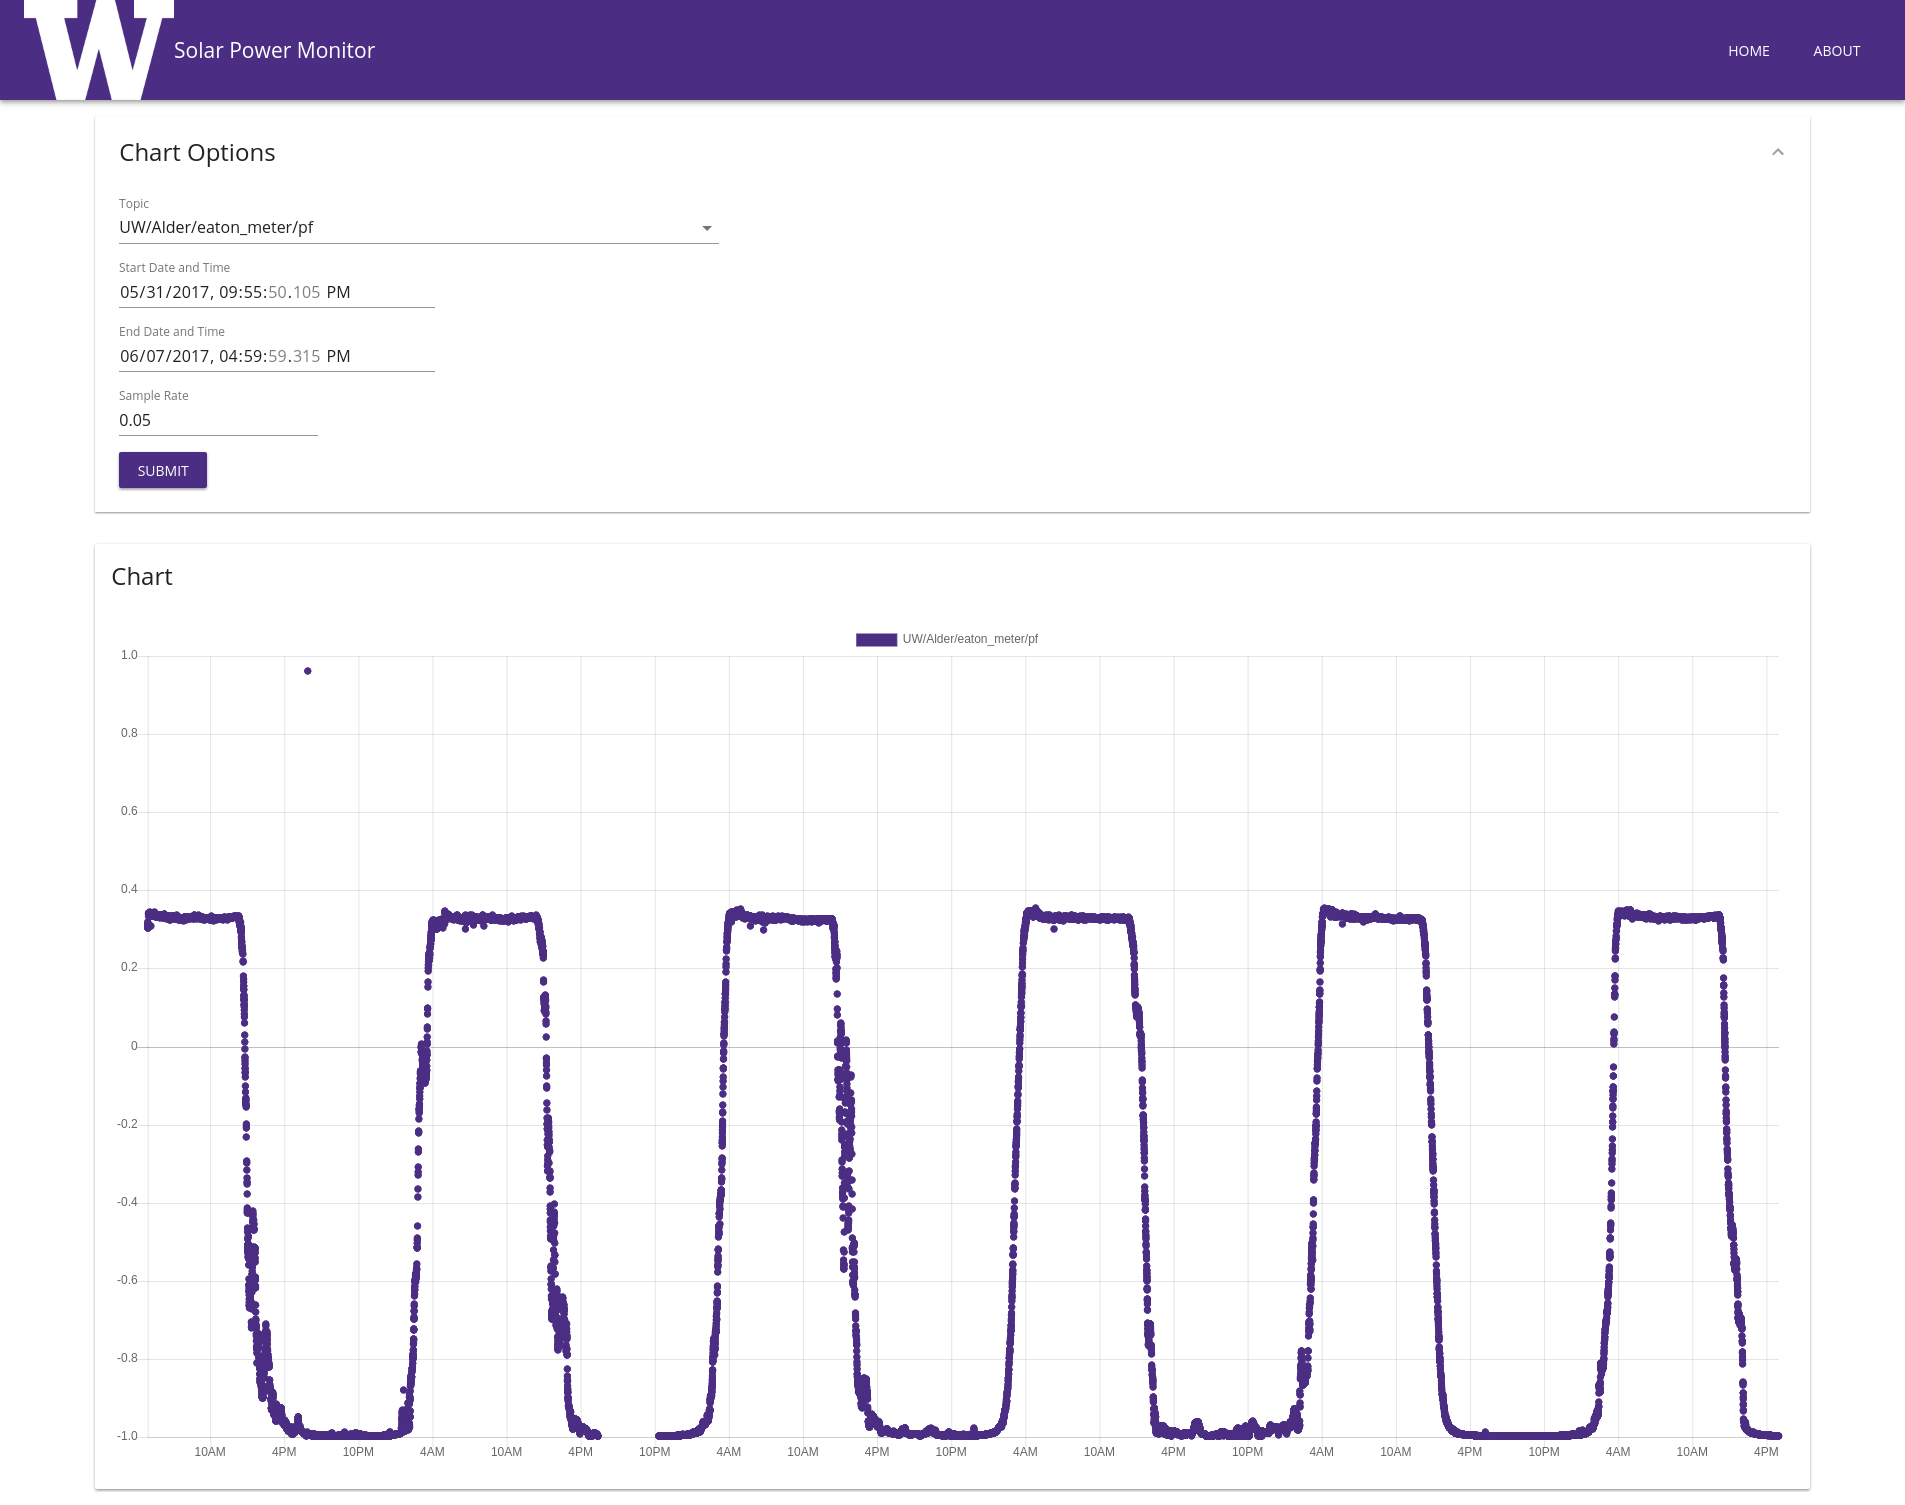
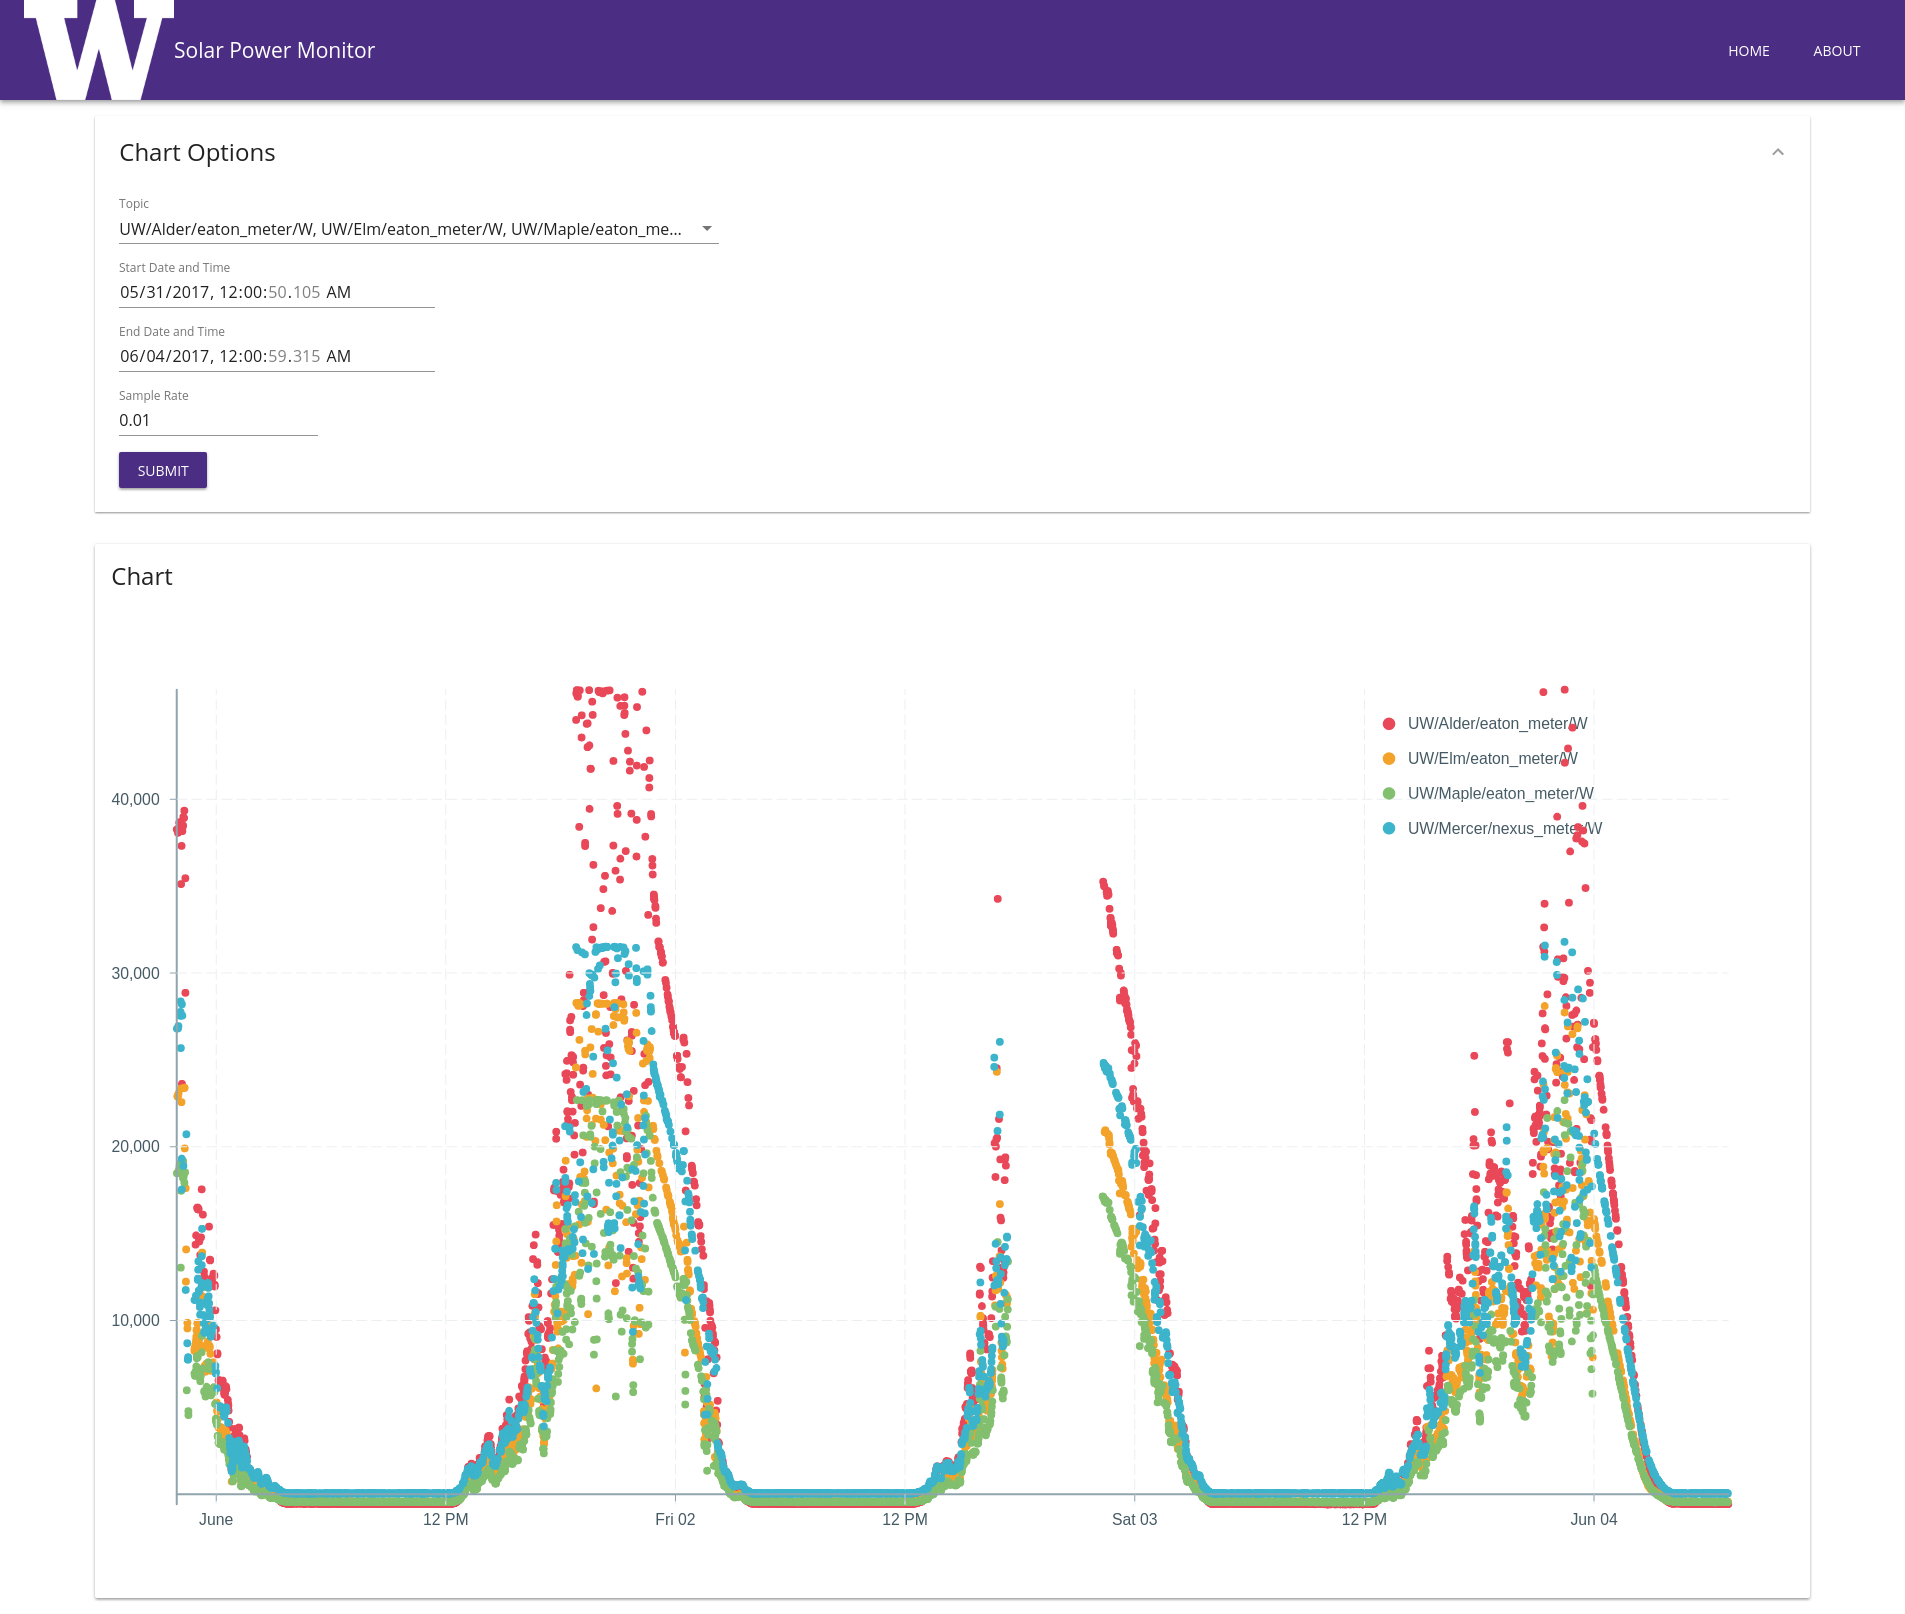
Enable multiple time series to be displayed.

diff --git a/src/client/js/chart.jsx b/src/client/js/chart.jsx
@@ -5,7 +5,13 @@
 import Moment from 'moment';
 import PropTypes from 'prop-types';
 import React from 'react';
-import { VictoryAxis, VictoryChart, VictoryScatter, VictoryTheme, VictoryVoronoiContainer } from 'victory';
+import { VictoryChart, VictoryLegend, VictoryScatter, VictoryTheme, VictoryVoronoiContainer } from 'victory';
+
+const CHART_COLORS = [
+  '#e94858', '#f3a32a', '#82BF6E', '#3CB4CB',
+  '#16434B', '#d9f35a', '#13aacb', '#5b6368',
+  '#ac62b2', '#5f62a0', '#17b2b4', '#80217a'
+];
 
 /**
  * A chart component for rendering timeseries data.
@@ -16,8 +22,50 @@ class Chart extends React.Component {
    * @returns {undefined}
    */
   render() {
-    const container = (<VictoryVoronoiContainer labels={(d) => `${d.x.format('YYYY-MM-DD[T]HH:mm:ss.SSS')}, ${d.y}`} />);
-    const data = this.props.data.map((e) => ({x: e.ts, y: parseFloat(e.valueString)}));
+    // Use a Voronoi container so that labels appear over data points.
+    const container = (
+      <VictoryVoronoiContainer
+        labels={(d) => `${d.x.format('YYYY-MM-DD[T]HH:mm:ss.SSS')}, ${d.y}`} />
+    );
+
+    // Group data by topic ID.
+    const data = {};
+    this.props.data.forEach(function(datum) {
+      if (!(datum.topicId in data)) {
+        data[datum.topicId] = [];
+      }
+
+      data[datum.topicId].push({
+        x: datum.ts,
+        y: parseFloat(datum.valueString)
+      });
+    });
+
+    // Create a scatter chart for each topic ID.
+    const charts = [];
+    const legendData = [];
+    const topics = this.props.topics;
+    Object.keys(data).forEach(function(topicId, index) {
+      const color = CHART_COLORS[index % CHART_COLORS.length];
+      const topic = topics.find((e) => (e.topicId == topicId));
+
+      charts.push(
+        <VictoryScatter
+          key={topicId}
+          data={data[topicId]}
+          style={{ data: { fill: color } }} />
+      );
+
+      legendData.push({
+        name: topic.topicName,
+        symbol: { fill: color }
+      });
+    });
+
+    // Create legend entries.
+    Object.keys(data).forEach(function(topicId, index) {
+    });
+
     return (
       <VictoryChart
         containerComponent={container}
@@ -25,7 +73,12 @@ class Chart extends React.Component {
         scale={{ x: 'time' }}
         width={1280}
         height={720}>
-        <VictoryScatter data={data} />
+
+        {charts}
+        <VictoryLegend
+          gutter={16}
+          x={960} y={64}
+          data={legendData} />
       </VictoryChart>
     );
   }
@@ -33,7 +86,7 @@ class Chart extends React.Component {
 
 Chart.propTypes = {
   data: PropTypes.array.isRequired,
-  label: PropTypes.string.isRequired
+  topics: PropTypes.array.isRequired
 };
 
 export default Chart;

diff --git a/src/client/js/home-route.jsx b/src/client/js/home-route.jsx
@@ -42,11 +42,11 @@ class HomeRoute extends React.Component {
       // A list of known topics.
       topics: [],
 
-      // The currently selected topic.
-      selectedTopicId: 0,
+      // The currently selected topics.
+      selectedTopicIds: [],
 
-      // The currently displayed data.
-      data: [],
+      // The currently displayed data, grouped by topic.
+      data: {},
 
       // The currently selected sample rate.
       selectedSampleRate: 0.05,
@@ -75,17 +75,11 @@ class HomeRoute extends React.Component {
 
     let chart = null;
     if (this.state.data.length > 0) {
-      const selectedTopic = this.state.topics.find((e) => (
-        e.topicId == this.state.selectedTopicId
-      ));
-
       chart = (
         <Card className={classes.chartCard}>
           <CardHeader title="Chart" />
           <CardContent>
-            <Chart
-              data={this.state.data}
-              label={selectedTopic.topicName} />
+            <Chart data={this.state.data} topics={this.state.topics} />
           </CardContent>
         </Card>
       );
@@ -101,7 +95,7 @@ class HomeRoute extends React.Component {
           <ExpansionPanelDetails>
             <ChartOptions
               topics={this.state.topics}
-              selectedTopicId={this.state.selectedTopicId}
+              selectedTopicIds={this.state.selectedTopicIds}
               startDateTime={this.state.startDateTime}
               endDateTime={this.state.endDateTime}
               selectedSampleRate={this.state.selectedSampleRate}
@@ -165,16 +159,16 @@ class HomeRoute extends React.Component {
     this.setState({ showProgressIndicator: true });
 
     const params = new URLSearchParams();
-    params.set('topic_id', this.state.selectedTopicId);
     params.set('start_date_time', this.state.startDateTime.toISOString());
     params.set('end_date_time', this.state.endDateTime.toISOString());
     params.set('sample_rate', this.state.selectedSampleRate);
+    params.set('topic_ids', this.state.selectedTopicIds);
 
     fetch('/_/data?' + params.toString())
       .then((response) => response.json())
       .then((data) => {
         this.setState({
-          data: data.map((e) => (new Datum(new Moment(e[0]), e[1], e[2]))),
+          data: data.map((e) => (new Datum(new Moment(e[0]), parseInt(e[1], 10), e[2]))),
           showProgressIndicator: false
         });
       });
@@ -186,7 +180,7 @@ class HomeRoute extends React.Component {
    * @returns {undefined}
    */
   handleSelectedTopicChange(event) {
-    this.setState({ selectedTopicId: event.target.value });
+    this.setState({ selectedTopicIds: event.target.value });
   }
 
   /**

diff --git a/src/client/js/chart-options.jsx b/src/client/js/chart-options.jsx
@@ -66,8 +66,9 @@ class ChartOptions extends React.Component {
               <FormControl>
                 <InputLabel>Topic</InputLabel>
                 <Select
+                  multiple
                   className={classes.topicSelect}
-                  value={this.props.selectedTopicId}
+                  value={this.props.selectedTopicIds}
                   onChange={this.props.onTopicChange}>
                   {topicMenuItems}
                 </Select>
@@ -175,7 +176,7 @@ class ChartOptions extends React.Component {
 
 ChartOptions.propTypes = {
   topics: PropTypes.array.isRequired,
-  selectedTopicId: PropTypes.number.isRequired,
+  selectedTopicIds: PropTypes.array.isRequired,
   startDateTime: PropTypes.instanceOf(Moment).isRequired,
   endDateTime: PropTypes.instanceOf(Moment).isRequired,
   selectedSampleRate: PropTypes.number.isRequired,

diff --git a/src/server/api_server_test.py b/src/server/api_server_test.py
@@ -106,7 +106,7 @@ class ApiServerTestCase(unittest.TestCase):
     params = {
         'start_date_time': start.isoformat(),
         'end_date_time': end.isoformat(),
-        'topic_id': '18',
+        'topic_ids': '18',
         'sample_rate': '1'
     }
 
@@ -132,7 +132,7 @@ class ApiServerTestCase(unittest.TestCase):
     params = {
         'start_date_time': start.isoformat(),
         'end_date_time': end.isoformat(),
-        'topic_id': '18',
+        'topic_ids': '18',
         'sample_rate': '1'
     }
 
@@ -169,7 +169,7 @@ class ApiServerTestCase(unittest.TestCase):
     """Tests that an error occurs when there is no start date present."""
     params = {
         'end_date_time': datetime.datetime.now().isoformat(),
-        'topic_id': '18',
+        'topic_ids': '18',
         'sample_rate': '1'
     }
 
@@ -186,7 +186,7 @@ class ApiServerTestCase(unittest.TestCase):
     """Tests that an error occurs when there is no end date present."""
     params = {
         'start_date_time': datetime.datetime.now().isoformat(),
-        'topic_id': '18',
+        'topic_ids': '18',
         'sample_rate': '1'
     }
 
@@ -204,7 +204,7 @@ class ApiServerTestCase(unittest.TestCase):
     params = {
         'start_date_time': datetime.datetime.now().isoformat(),
         'end_date_time': datetime.datetime.now().isoformat(),
-        'topic_id': '18'
+        'topic_ids': '18'
     }
 
     try:

diff --git a/src/server/api_server.py b/src/server/api_server.py
@@ -49,11 +49,11 @@ class ApiServer(server.BaseServer):
     return json.dumps(self._db.get_all_topics(), cls=codec.TopicEncoder)
 
   def get_data(self):
-    """Returns time-series data for a topic.
+    """Returns time-series data for a set of topics.
 
     This method expects the query string to contain the following parameters:
 
-      * topic_id: The topic ID being queried.
+      * topic_ids: A comma-separated list of topic IDs to query.
       * start_date_time: The start of the date range being queried.
       * end_date_time: The end of the date range being queried.
       * sample_rate: The sample rate, between 0 and 1 (inclusive).
@@ -65,7 +65,7 @@ class ApiServer(server.BaseServer):
 
     # Validate topic ID.
     try:
-      topic_id = int(params.get('topic_id'))
+      topic_ids = [int(i) for i in params.get('topic_ids').split(',')]
     except (TypeError, ValueError):
       raise bottle.HTTPError(400, 'A valid topic ID is required.')
 
@@ -86,7 +86,10 @@ class ApiServer(server.BaseServer):
 
     # Query database.
     bottle.response.content_type = 'application/octet-stream'
-    result = self._db.get_data(topic_id, start_dt, end_dt, sample_rate)
+    result = []
+    for i in topic_ids:
+      result += self._db.get_data(i, start_dt, end_dt, sample_rate)
+
     return json.dumps(result, cls=codec.DatumEncoder)
 
   def get_earliest_data_timestamp(self):
